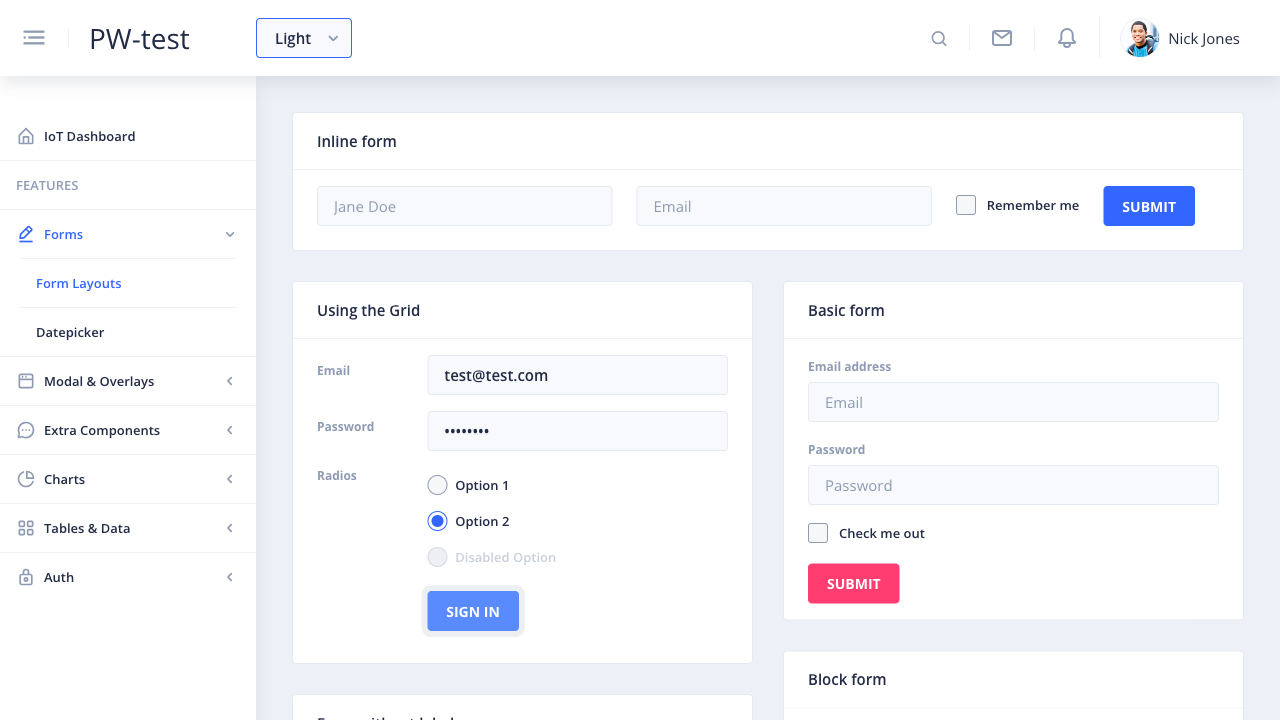
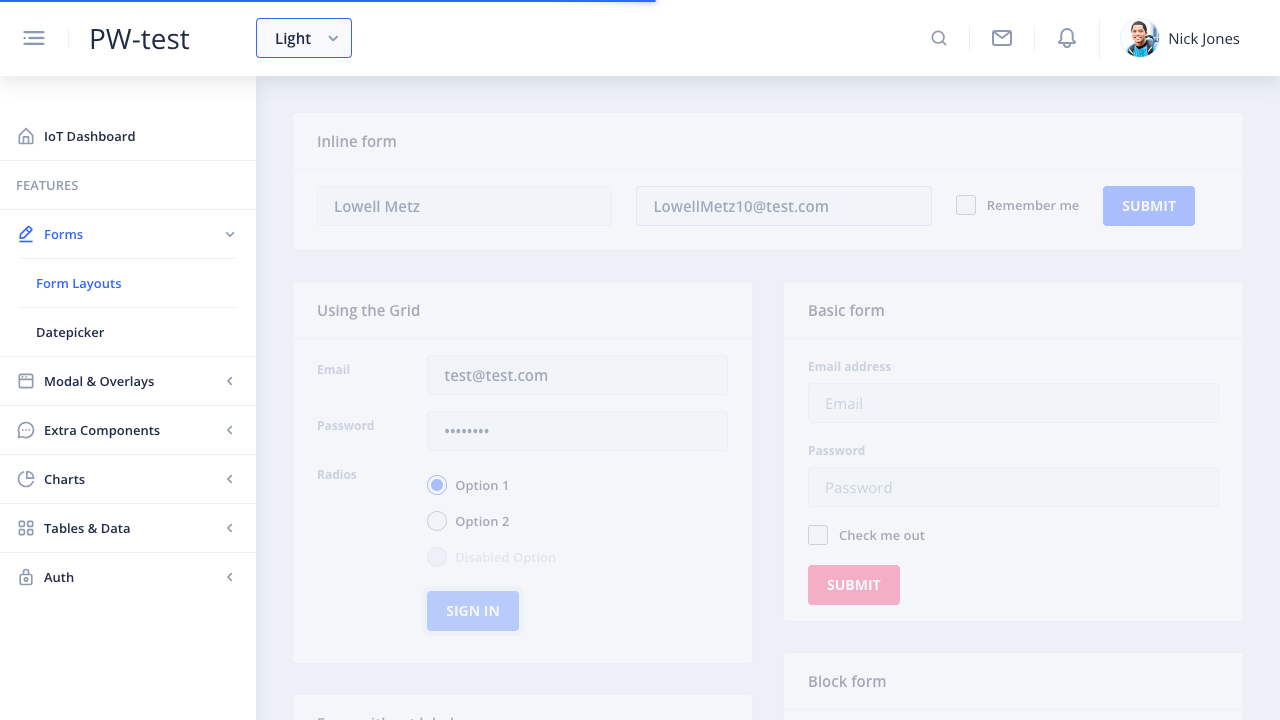
#66 screenshots & videos - review

diff --git a/tests/usePageObjects.spec.ts b/tests/usePageObjects.spec.ts
@@ -24,14 +24,15 @@ test('parametrized methods @smoke', async ({ page }) => {
     await pm.navigateTo().formLayoutsPage()
     await pm.onFormLayoutsPage()
         .submitUsingTheGridFormWithCredentialsAndSelectedOption(process.env.USERNAME, process.env.PASSWORD, 'Option 1')
-    // await page.screenshot({ path: 'screenshots/formsLayoutsPage.png' })//--->screenshot for test
-    // const buffer = await page.screenshot()   //---> save in binary
-    // console.log(buffer.toString('base64'))
+    await page.screenshot({ path: 'screenshots/formsLayoutsPage.png', fullPage: true }) // --> screenshot of test
     await pm.onFormLayoutsPage()
         .submitInLineFormWithNameEmailAndCheckbox(randomFullName, randomEmail, false)//with true check box on, w/false empty
-    // await page.locator('nb-card', { hasText: "Inline form" })
-    //     .screenshot({ path: 'screenshots/inlineForm.png' })//--->screenshot for test specific area
-
+    await page.screenshot({ path: 'screenshots/formsLayoutsPage.png', fullPage: true })
+    const buffer = await page.screenshot()   // --> save in binary
+    console.log(buffer.toString('base64'))
+    await page.locator('nb-card', { hasText: "Inline form" })
+        .screenshot({ path: 'screenshots/inlineForm.png' }) // -->screenshot for test specific area
+  
     // await pm.navigateTo().datepickerPage()                           // #63 temporary was comment nex 3 for test faker
     // await pm.onDatepickerPage().selectCommonDatePickerDateFromToday(7)
     // await pm.onDatepickerPage().selectDatepickerWithRangeFromToday(3, 12)

diff --git a/playwright.config.ts b/playwright.config.ts
@@ -64,14 +64,15 @@ export default defineConfig({
     //     : 'http://localhost:4200/',
 
     /* Collect trace when retrying the failed test. See https://playwright.dev/docs/trace-viewer */
-    trace: 'on-first-retry',
-    // screenshot: "only-on-failure",           //---> Capture screenshot after each test failure.
+    trace: 'on-first-retry',        
+    // screenshot: "only-on-failure",   //---> Capture screenshot after each test failure.
     // actionTimeout: 5000,
-    // navigationTimeout: 8000,
-    // video: {                //---> to take video as a screenshot of the tests ***
-    //   mode: 'off',
-    //   size: { width: 1920, height: 1200 }
-    // }
+    navigationTimeout: 5000,
+    video: {                // --> to take video of the tests ***
+      // mode: 'on',
+      mode: 'off',          // --> default
+      size: { width: 1920, height: 1200 }
+    }
   },
 
   /* Configure projects for major browsers */

diff --git a/page-objects/navigationPage.ts b/page-objects/navigationPage.ts
@@ -9,7 +9,7 @@ export class NavigationPage extends HelperBase {
     async formLayoutsPage() {
         await this.selectGroupMenuItem('Forms')
         await this.page.getByText('Form Layouts').click()
-        // await this.waitForNumberOfSeconds(2)             // #52 delay to navigate example from helper base page
+        // await this.waitForNumberOfSeconds(3)             // #52 delay to navigate example from helper base page
     }
 
     async datepickerPage() {
